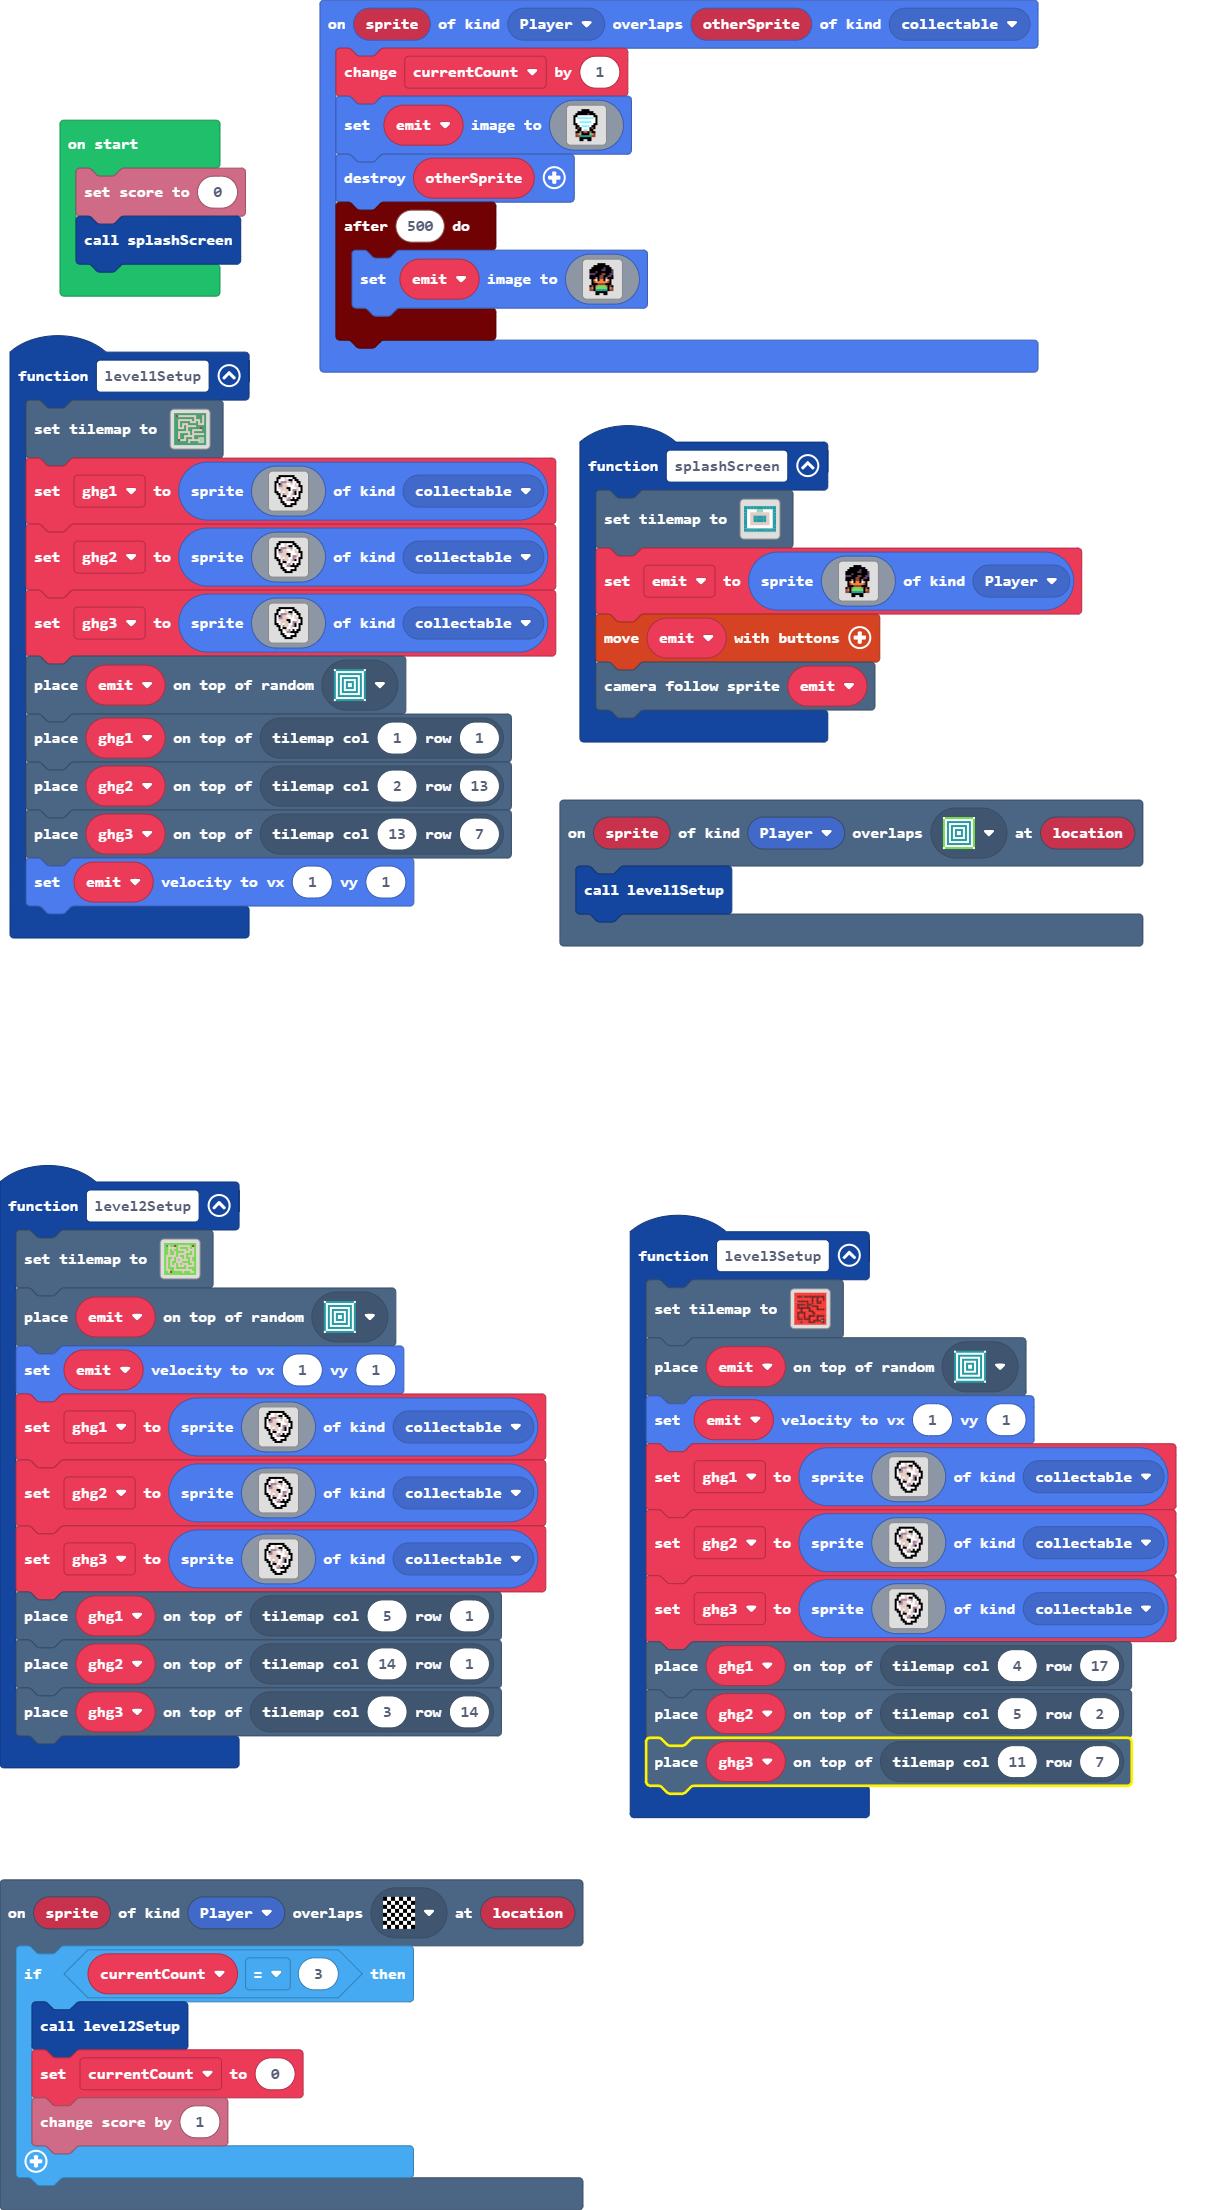
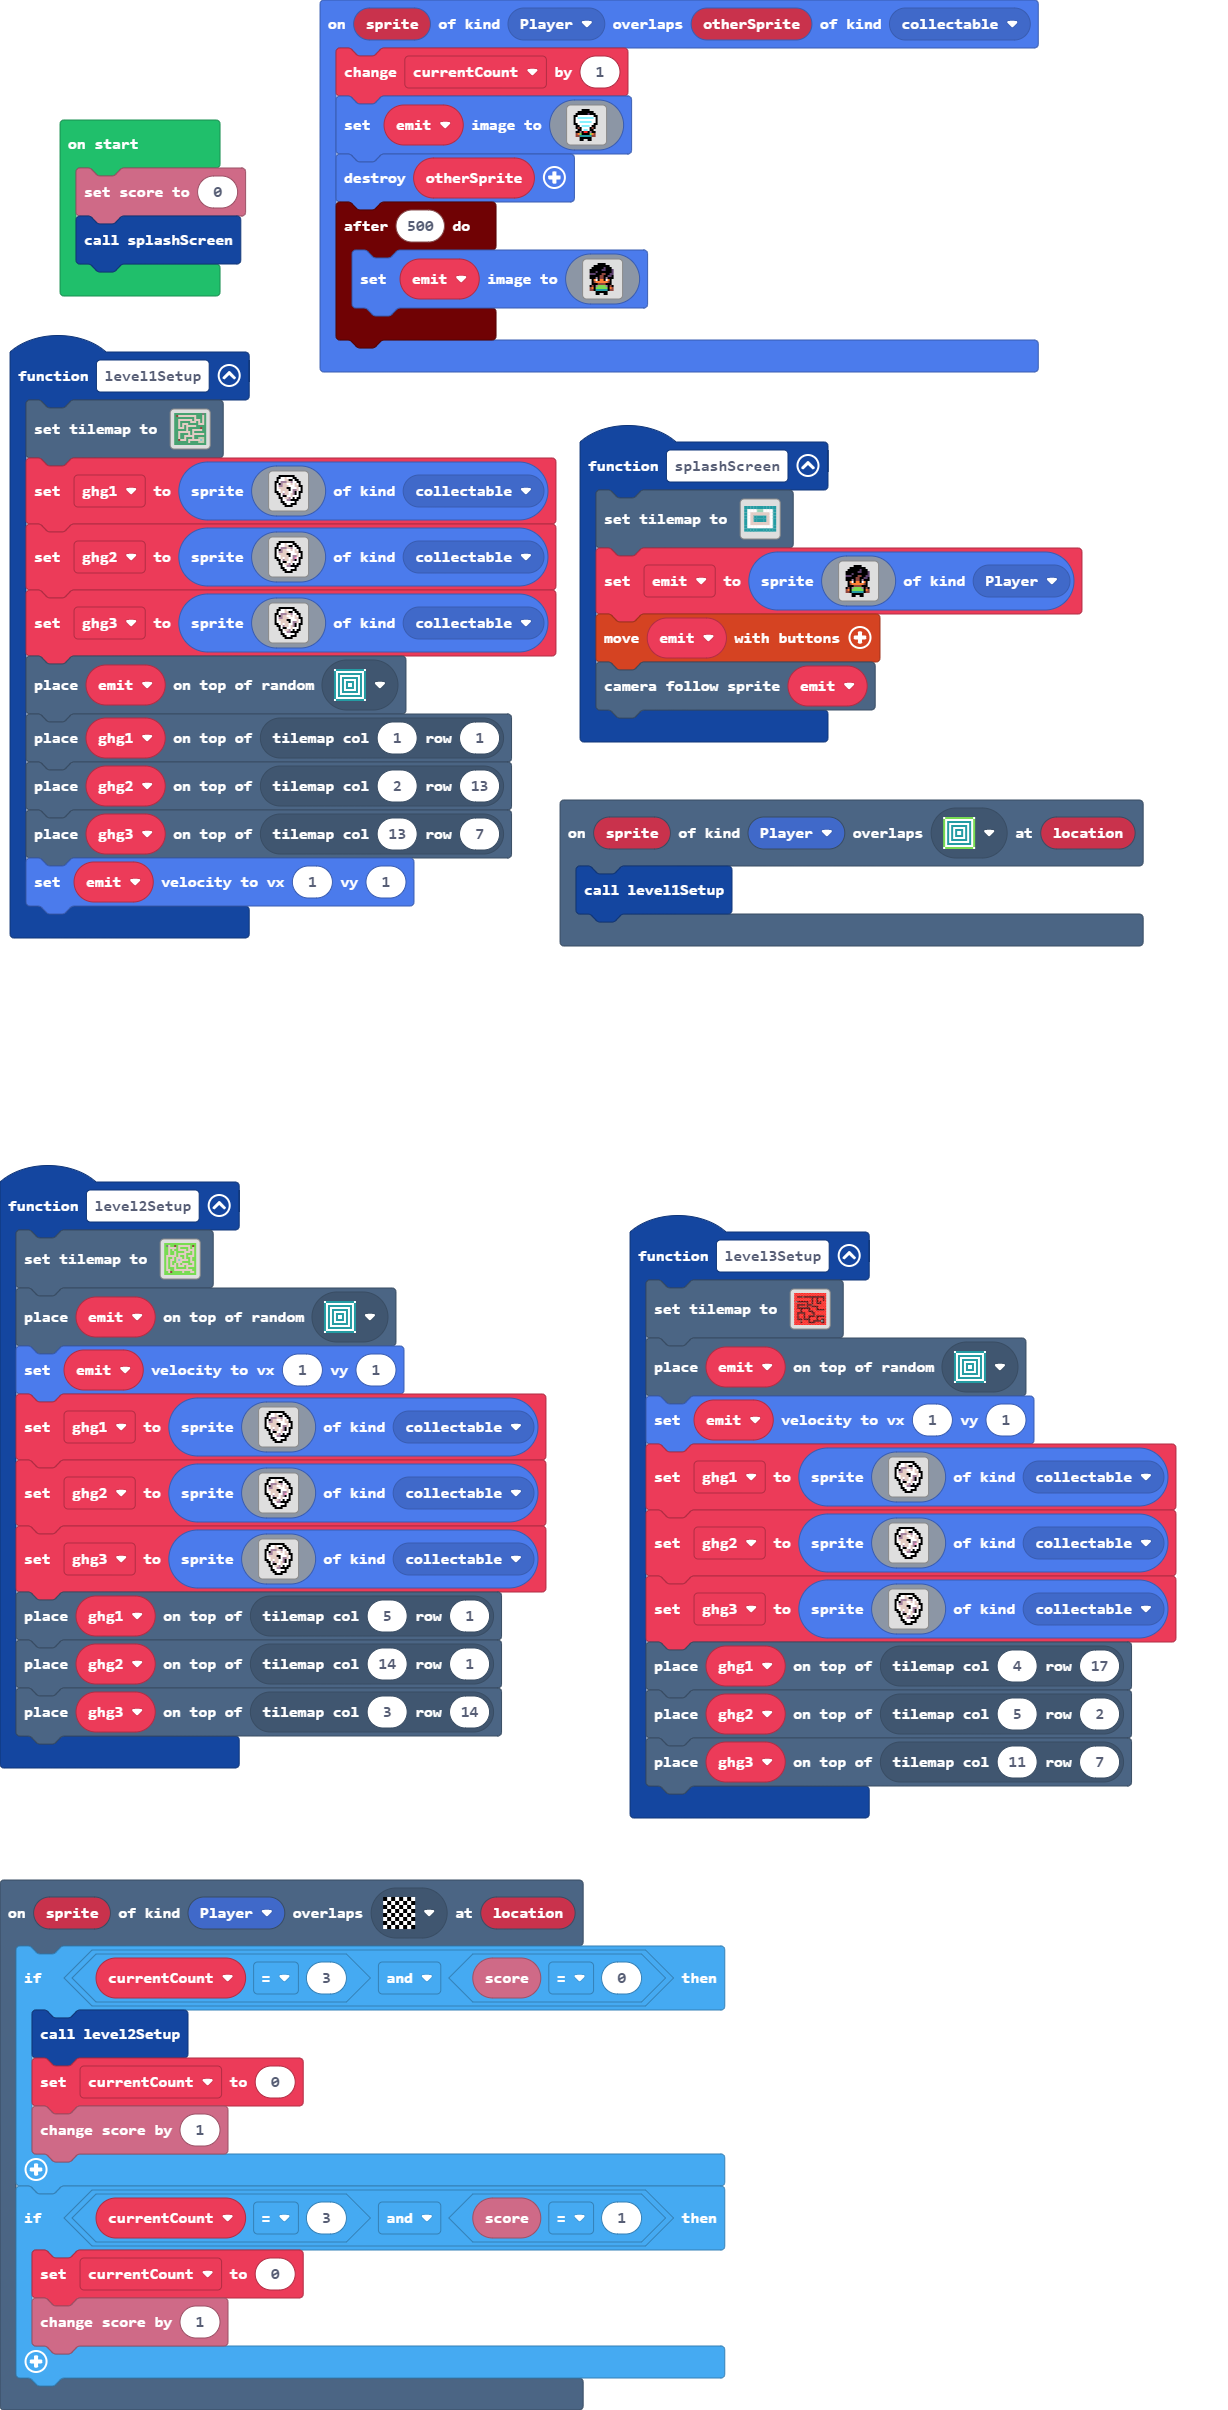
Update main.blocks, main.ts

diff --git a/main.ts b/main.ts
@@ -13,8 +13,12 @@ function level2Setup () {
     tiles.placeOnTile(ghg3, tiles.getTileLocation(3, 14))
 }
 scene.onOverlapTile(SpriteKind.Player, assets.tile`end-tile`, function (sprite, location) {
-    if (currentCount == 3) {
+    if (currentCount == 3 && info.score() == 0) {
         level2Setup()
+        currentCount = 0
+        info.changeScoreBy(1)
+    }
+    if (currentCount == 3 && info.score() == 1) {
         currentCount = 0
         info.changeScoreBy(1)
     }
